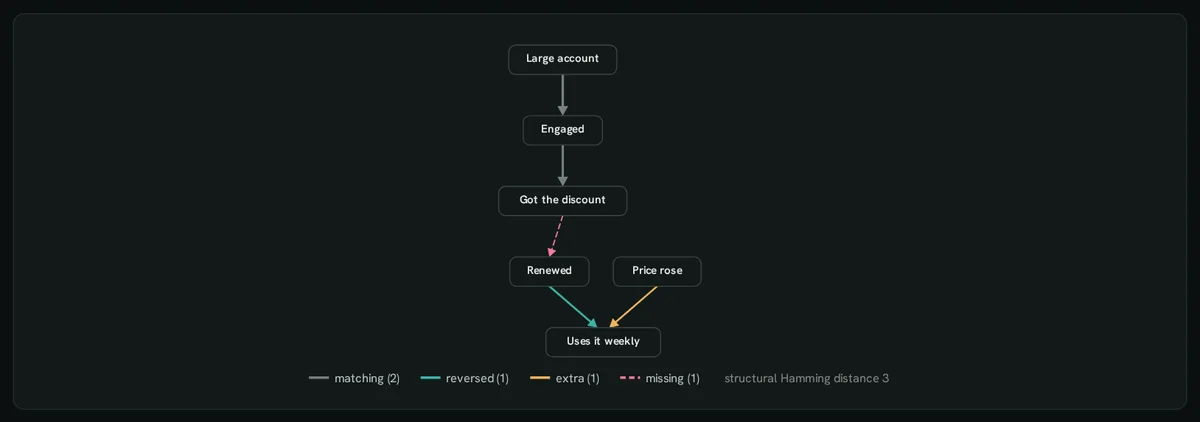
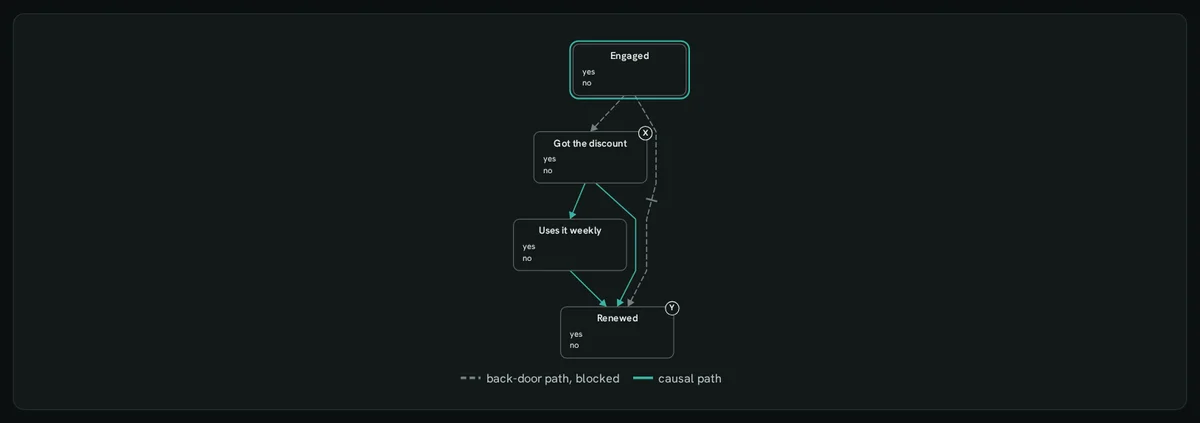
fix(#1278): after rebasing on #1308 — causal views in the macro's description, the seeing/doing label and KPIs on one quantity, gallery tiles 21–22
The KPIs now read seen (with against without), done, and confounding (seen
minus done); the chart's label names the same: confounding of the points
seen.

diff --git a/modules/bayes-net/src/lib.rs b/modules/bayes-net/src/lib.rs
@@ -75,8 +75,15 @@ parent_states, option, expected_utility, chosen) draws a decision's policy as a 
 configuration of its informational parents, a column per option with its expected utility, the chosen one marked, \
 the configuration the evidence picks on a band; a click on an option decides it); arcs into a decision are \
 information arcs, drawn dotted; a beliefs row of a utility node with expected_utility and no state is written in \
-its diamond. Lint: cycles, unknown ids, beliefs not summing to 1, unknown states, bad modes or likelihoods, path \
-steps along no arc or out of order, policy options, parent_states and chosen options that do not fit.",
+its diamond. Causal views: adjust := a LIST of (treatment, outcome, set_id, node, kind: minimal | optimal | \
+canonical | front-door) marks the treatment X, the outcome Y, the first set's nodes ringed and front-door mediators \
+M, the back-door paths dashed (red when open, a bar where the set blocks them), the causal paths in the accent \
+colour; beliefs with a world column (factual | counterfactual) draw the twin network, the nodes a do reaches twice \
+(the copy's id ends in *), the rest shared; reference := a LIST of (from, to) draws the learned arcs (strength at or \
+above threshold) against it: matching, extra, reversed, missing dashed, and the structural Hamming distance. Lint: \
+cycles, unknown ids, beliefs not summing to 1, unknown states, bad modes or likelihoods, path steps along no arc or \
+out of order, policy options, parent_states and chosen options that do not fit, adjustment sets that leave a \
+back-door path open or hold a node downstream of the treatment.",
         example: "SELECT anofox_plot_bayes_net(n, arcs := [{'from': 'rain', 'to': 'grass'}], beliefs := \
 [{'node': 'rain', 'state': 'yes', 'probability': 0.2}, {'node': 'rain', 'state': 'no', 'probability': 0.8}]) FROM \
 (VALUES ('rain', 'Rain', 'chance', ['yes', 'no']), ('grass', 'Wet grass', 'chance', ['yes', 'no'])) \

diff --git a/modules/bayes-net/src/bayes_net.rs b/modules/bayes-net/src/bayes_net.rs
@@ -754,6 +754,7 @@ pub(crate) fn columns(rows: &[Row], options: &Row) -> Result<Vec<OutColumn>, Str
     }
     if utilities.iter().any(|u| !u.is_null()) {
         cols.push(col("expected utility", "METRIC", utilities));
+    }
     if lanes.iter().any(|l| !l.is_null()) {
         cols.push(col("lane", "LANE", lanes));
     }
